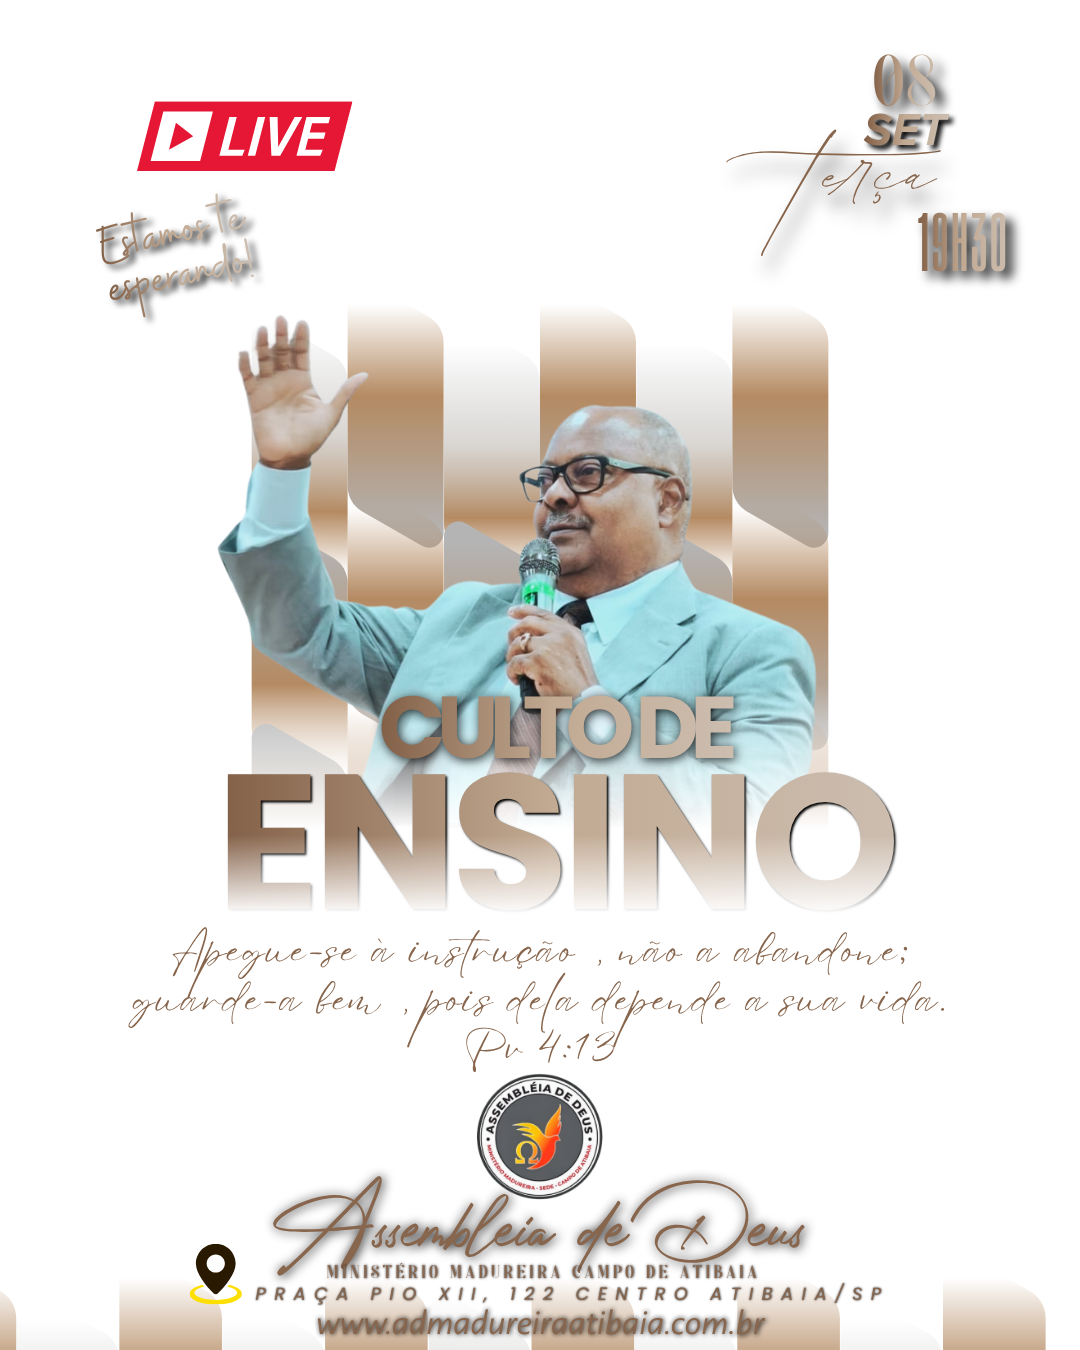
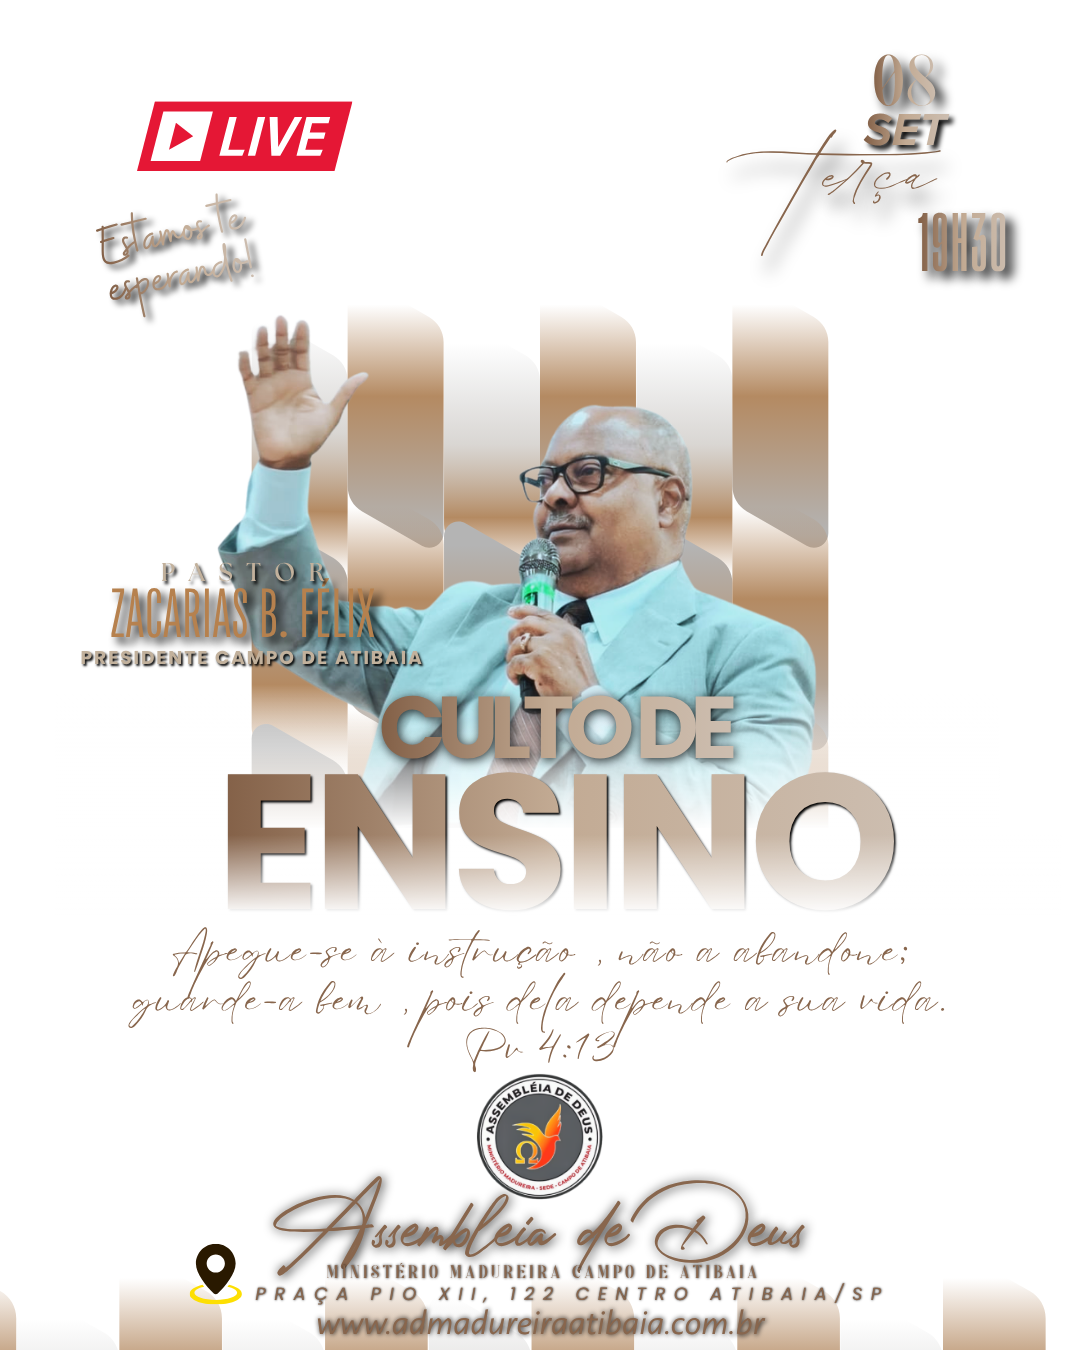
chore(artes): corrige nome do pastor e adiciona campanha de alimentos na Santa Ceia (#158)
* chore(artes): corrige nome do pastor no Culto de Ensino e no Culto da Vitória

Reexporta as artes de 07-09 com o nome do pregador, que faltava:
- culto-de-ensino.png
- culto-de-quinta.png (Culto da Vitória)

Sem mudança de nome de arquivo, então o banner-semanal-manifest não muda.

* feat(eventos): campanha de alimentos na página da Santa Ceia

Adiciona o campo opcional arteComplementar aos eventos ({ imagem, alt,
titulo?, texto? }) e o renderiza na página /eventos/[slug] logo após o
convite, como cartão com título, texto de apoio e a arte.

Usa isso na Santa Ceia de 12/09 para o pedido do Departamento Social:
cada irmão pode levar 1 kg de alimento não perecível para as cestas
básicas distribuídas a famílias em necessidade.

A arte fica em public/programacao/eventos/santa-ceia-cesta-basica.png —
é asset de evento, não banner semanal, então sai da pasta semanas/ e não
entra no WEEKLY_FILENAME_MAP.

* feat(eventos): arteComplementar leva as próprias dimensões e um destaque

Revisão do #158:

- largura/altura entram no campo (Zod: int positivo) em vez de ficarem
  cravados no componente. O <Image> passa a usar
  evento.arteComplementar.largura/altura, então o pattern serve qualquer
  proporção de arte, não só a 1122x1402 desta campanha.
- Novo destaque? opcional — linha em evidência entre título e texto.
- Santa Ceia 12/09: título "Campanha de arrecadação de alimentos",
  destaque "Traga 1 kg de alimento não perecível", texto pastoral pedindo
[…]

Changed region(s): [[0.0611, 0.4044, 0.3972, 0.4978]]

diff --git a/src/app/eventos/[slug]/page.tsx b/src/app/eventos/[slug]/page.tsx
@@ -231,6 +231,36 @@ export default async function EventoPage({ params }: PageProps) {
                   </div>
                 )}
 
+                {evento.arteComplementar && (
+                  <div className="rounded-2xl border border-black/5 bg-white p-5 md:p-6">
+                    {evento.arteComplementar.titulo && (
+                      <h2 className="font-acme text-2xl text-[#212121] tracking-wide mb-2">
+                        {evento.arteComplementar.titulo}
+                      </h2>
+                    )}
+                    {evento.arteComplementar.destaque && (
+                      <p className="mb-3 font-semibold text-[#212121]">
+                        {evento.arteComplementar.destaque}
+                      </p>
+                    )}
+                    {evento.arteComplementar.texto && (
+                      <p className="mb-4 text-[#555] leading-relaxed">
+                        {evento.arteComplementar.texto}
+                      </p>
+                    )}
+                    <div className="mx-auto max-w-sm overflow-hidden rounded-2xl border border-black/5">
+                      <Image
+                        src={evento.arteComplementar.imagem}
+                        alt={evento.arteComplementar.alt}
+                        width={evento.arteComplementar.largura}
+                        height={evento.arteComplementar.altura}
+                        sizes="(max-width: 768px) 100vw, 384px"
+                        className="h-auto w-full"
+                      />
+                    </div>
+                  </div>
+                )}
+
                 {((evento.baseBiblica?.length ?? 0) > 0 ||
                   recursosRelacionados.length > 0) && (
                   <div className="grid grid-cols-1 gap-4 lg:grid-cols-2">

diff --git a/src/data/eventos-especiais.ts b/src/data/eventos-especiais.ts
@@ -22,6 +22,15 @@ type EventoConfig = {
   imagem?: string;
   banner?: string;
   hero?: string;
+  arteComplementar?: {
+    imagem: string;
+    alt: string;
+    largura: number;
+    altura: number;
+    titulo?: string;
+    destaque?: string;
+    texto?: string;
+  };
 };
 
 function criarEvento(local: string, config: EventoConfig) {
@@ -745,6 +754,16 @@ export function getEventosEspeciais2026(local: string): MesAgendaBase[] {
           destaque: true,
           imagem: "/programacao/semanas/2026-09-07/santa-ceia.png",
           banner: "/programacao/semanas/2026-09-07/santa-ceia.png",
+          arteComplementar: {
+            imagem: "/programacao/eventos/santa-ceia-cesta-basica.png",
+            alt: "Arte da campanha de arrecadação de alimentos: traga 1 kg de alimento não perecível para as cestas básicas do Departamento Social da igreja",
+            largura: 1122,
+            altura: 1402,
+            titulo: "Campanha de arrecadação de alimentos",
+            destaque: "Traga 1 kg de alimento não perecível",
+            texto:
+              "Neste culto de Santa Ceia, pedimos aos irmãos que tragam 1 kg de alimento não perecível. Os alimentos serão destinados às cestas básicas preparadas pelo Departamento Social da igreja para famílias em situação de necessidade.",
+          },
         }),
         criarEvento(local, {
           slug: "reuniao-de-obreiros-19-09-2026",

diff --git a/src/data/agenda-schema.ts b/src/data/agenda-schema.ts
@@ -27,6 +27,17 @@ export const EventoSchema = z.object({
   imagem: z.string().optional(),
   banner: z.string().optional(),
   hero: z.string().optional(),
+  arteComplementar: z
+    .object({
+      imagem: z.string().min(1),
+      alt: z.string().min(1),
+      largura: z.number().int().positive(),
+      altura: z.number().int().positive(),
+      titulo: z.string().optional(),
+      destaque: z.string().optional(),
+      texto: z.string().optional(),
+    })
+    .optional(),
 });
 
 export const MesAgendaSchema = z.object({

diff --git a/src/data/agenda-types.ts b/src/data/agenda-types.ts
@@ -26,6 +26,15 @@ export interface EventoBase {
   imagem?: string;
   banner?: string;
   hero?: string;
+  arteComplementar?: {
+    imagem: string;
+    alt: string;
+    largura: number;
+    altura: number;
+    titulo?: string;
+    destaque?: string;
+    texto?: string;
+  };
 }
 
 export type Evento = EventoBase;
